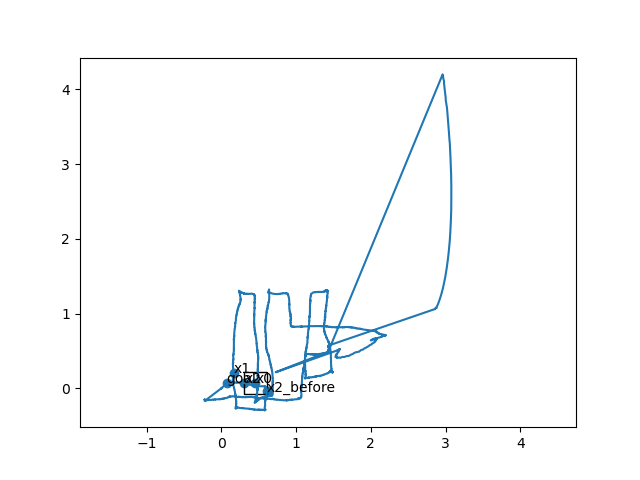
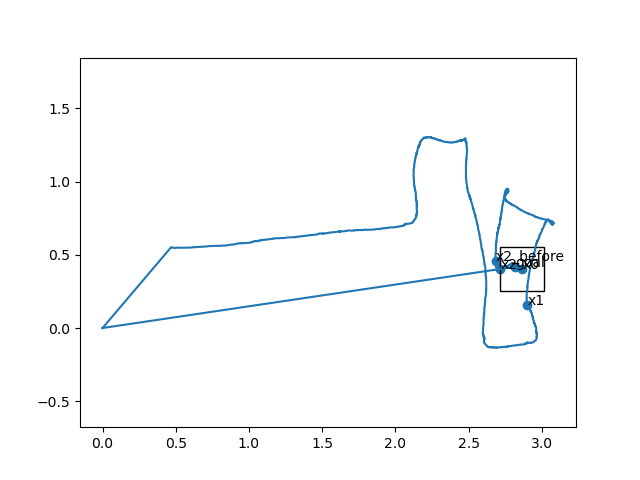
tuning edge detection

diff --git a/motion_flying.py b/motion_flying.py
@@ -163,11 +163,11 @@ def get_args():
         formatter_class=argparse.ArgumentDefaultsHelpFormatter,
     )
     #General Arguments
-    parser.add_argument('-x', '--arenaX', default='3', type=float,
+    parser.add_argument('-x', '--arenaX', default='3.5', type=float,
                         help='size of the arena in X')
     parser.add_argument('-y', '--arenaY', default='1.2', type=float,
                         help='size of the arena in Y')
-    parser.add_argument('--startX', default='0.3', type=float,
+    parser.add_argument('--startX', default='0.5', type=float,
                         help='start position in X')
     parser.add_argument('--startY', default='0.6', type=float,
                         help='start position in Y')

diff --git a/logs_plotter.py b/logs_plotter.py
@@ -2,7 +2,7 @@ import matplotlib.pyplot as plt
 import pandas as pd
 
 # import data in pandas dataframe (change the file name to your local file)
-data = pd.read_csv('logs/2022_05_28_18_43_54.csv', header = None)
+data = pd.read_csv('logs/2022_05_29_23_24_45.csv', header = None)
 print(data)
 
 # remove all-zeros rows

diff --git a/edge_detection.py b/edge_detection.py
@@ -8,7 +8,7 @@ import time
 VELOCITY_EDGE = 0.5 #before 0.2
 VELOCITY_EDGE_GOAL = 0.1 #before 0.1
 DELTA_X = 0.1
-DELTA_Y = 0.25
+DELTA_Y = 0.3  #previously 0.25
 #dronito.delta_x
 #dronito.delta_y
 
